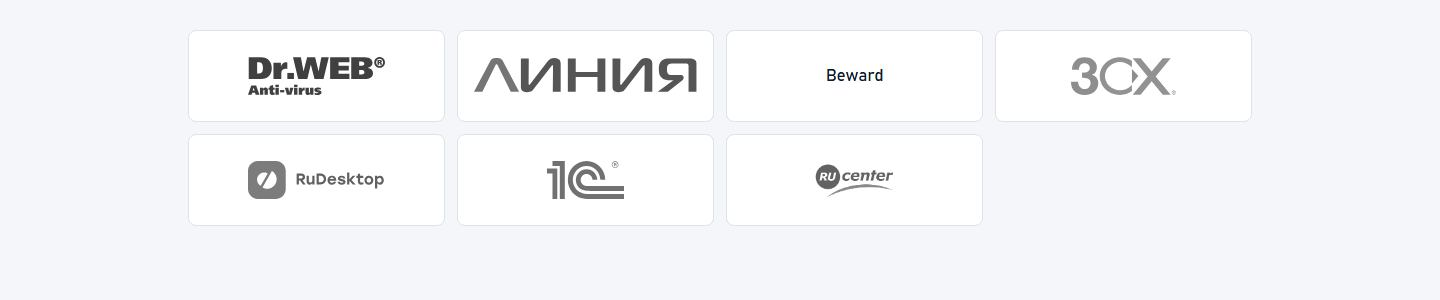
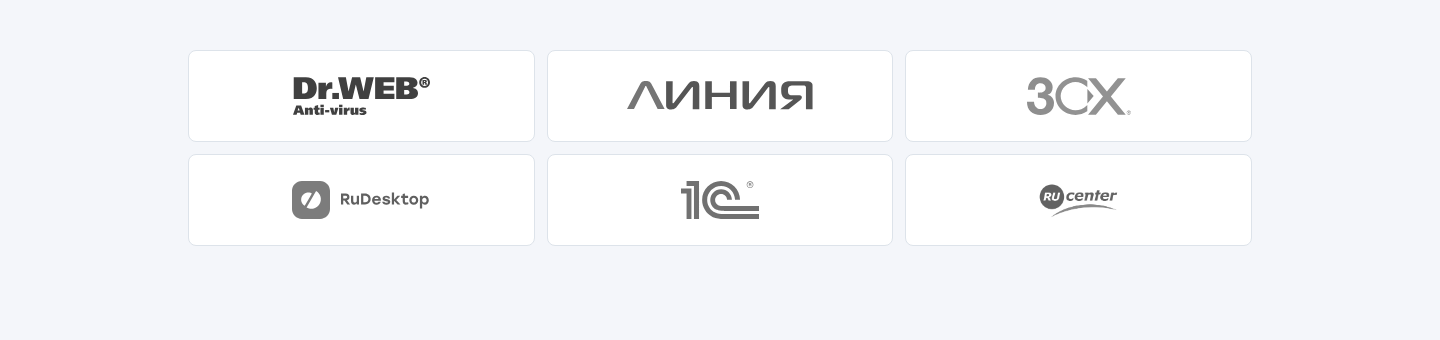
Убрать Beward, партнёры в три колонки; мета-теги и микроразметка под восемь направлений

diff --git a/index.html b/index.html
@@ -3,23 +3,23 @@
 <head>
   <meta charset="utf-8">
   <meta name="viewport" content="width=device-width, initial-scale=1">
-  <title>Интер-Техника-Плюс — компьютеры, ремонт и 1С в Иваново</title>
-  <meta name="description" content="Комплектующие и компьютеры для бизнеса в Иваново: сборка ПК и серверов, ремонт, внедрение и сопровождение 1С, хостинг и локальные сети. Работаем с 1999 года.">
+  <title>Интер-Техника-Плюс — компьютеры, 1С и видеонаблюдение в Иваново</title>
+  <meta name="description" content="Компьютеры и комплектующие для бизнеса в Иваново: сборка ПК и серверов, ремонт, внедрение 1С, видеонаблюдение, IP-АТС, хостинг и сети. Работаем с 1999 года.">
   <link rel="canonical" href="https://ivu.ru/">
   <meta name="theme-color" content="#101418">
 
   <meta property="og:type" content="website">
   <meta property="og:locale" content="ru_RU">
   <meta property="og:site_name" content="Интер-Техника-Плюс">
-  <meta property="og:title" content="Интер-Техника-Плюс — компьютеры, ремонт и 1С в Иваново">
-  <meta property="og:description" content="Сборка ПК и серверов, ремонт, внедрение 1С, хостинг и сети. Иваново, ул. Степанова, 24.">
+  <meta property="og:title" content="Интер-Техника-Плюс — компьютеры, 1С и видеонаблюдение в Иваново">
+  <meta property="og:description" content="Сборка ПК, ремонт, 1С, видеонаблюдение, телефония. Иваново, ул. Степанова, 24.">
   <meta property="og:url" content="https://ivu.ru/">
   <!-- Превью для мессенджеров и соцсетей. При переезде на ivu.ru
        поменяйте адрес на https://ivu.ru/assets/og.png -->
   <meta property="og:image" content="https://160ru.github.io/ivu-site/assets/og.png">
   <meta property="og:image:width" content="1200">
   <meta property="og:image:height" content="630">
-  <meta property="og:image:alt" content="Интер-Техника-Плюс — комплектующие и компьютеры для бизнеса">
+  <meta property="og:image:alt" content="Интер-Техника-Плюс — компьютеры, 1С, видеонаблюдение и телефония">
   <meta name="twitter:card" content="summary_large_image">
 
   <link rel="icon" href="assets/icon.png" type="image/png">
@@ -35,12 +35,29 @@
     "logo": "https://ivu.ru/assets/icon.png",
     "telephone": "+7 4932 353070",
     "foundingDate": "1999",
+    "alternateName": "Интер-Техника+",
+    "image": "https://ivu.ru/assets/og.png",
     "address": {
       "@type": "PostalAddress",
       "addressCountry": "RU",
       "addressLocality": "Иваново",
       "postalCode": "153000",
       "streetAddress": "ул. Степанова, 24"
+    },
+    "areaServed": { "@type": "City", "name": "Иваново" },
+    "hasOfferCatalog": {
+      "@type": "OfferCatalog",
+      "name": "Услуги",
+      "itemListElement": [
+        { "@type": "Offer", "itemOffered": { "@type": "Service", "name": "Продажа компьютеров и комплектующих" } },
+        { "@type": "Offer", "itemOffered": { "@type": "Service", "name": "Ремонт и сервисное обслуживание" } },
+        { "@type": "Offer", "itemOffered": { "@type": "Service", "name": "Внедрение и сопровождение 1С" } },
+        { "@type": "Offer", "itemOffered": { "@type": "Service", "name": "Хостинг и локальные сети" } },
+        { "@type": "Offer", "itemOffered": { "@type": "Service", "name": "Видеонаблюдение" } },
+        { "@type": "Offer", "itemOffered": { "@type": "Service", "name": "IP-АТС и телефония" } },
+        { "@type": "Offer", "itemOffered": { "@type": "Service", "name": "Интеграция систем" } },
+        { "@type": "Offer", "itemOffered": { "@type": "Service", "name": "Умная и бытовая техника" } }
+      ]
     }
   }
   </script>
@@ -201,7 +218,6 @@
         <ul class="partners">
           <li class="partner"><img src="assets/partners/drweb.svg" alt="Dr.Web" loading="lazy"><span class="partner__name">Dr.Web</span></li>
           <li class="partner"><img src="assets/partners/devline.svg" alt="Devline — система видеонаблюдения «Линия»" loading="lazy"><span class="partner__name">Devline</span></li>
-          <li class="partner"><span class="partner__name">Beward</span></li>
           <li class="partner"><img src="assets/partners/3cx.svg" alt="3CX" loading="lazy"><span class="partner__name">3CX</span></li>
           <li class="partner"><img src="assets/partners/rudesktop.svg" alt="RuDesktop" loading="lazy"><span class="partner__name">RuDesktop</span></li>
           <li class="partner"><img src="assets/partners/1c.svg" alt="1С Франчайзи" loading="lazy"><span class="partner__name">1С Франчайзи</span></li>

diff --git a/assets/style.css b/assets/style.css
@@ -882,7 +882,7 @@ p:last-child { margin-bottom: 0; }
 
 .cards--8 { grid-template-columns: repeat(4, minmax(0, 1fr)); }
 
-.partners { grid-template-columns: repeat(4, minmax(0, 1fr)); }
+.partners { grid-template-columns: repeat(3, minmax(0, 1fr)); }
 
 .partner {
   display: grid;

diff --git a/README.md b/README.md
@@ -50,8 +50,9 @@ ivu-site/
 
 ООО «Интер-Техника-Плюс», Иваново, ул. Степанова, 24. Работает с 1999 года.
 Направления: продажа компьютеров и комплектующих, ремонт и сервис,
-внедрение 1С, хостинг и сети. Партнёры на сайте: Dr.Web, Devline, Beward, 3CX,
-RuDesktop, 1С Франчайзи, RU-CENTER (ИРБИС убран по просьбе заказчика).
+внедрение 1С, хостинг и сети, видеонаблюдение, IP-АТС, интеграция систем,
+умная и бытовая техника — всего восемь. Партнёры на сайте: Dr.Web, Devline («Линия»), 3CX, RuDesktop,
+1С Франчайзи, RU-CENTER. ИРБИС и Beward убраны по просьбе заказчика.
 
 Реквизиты в `requisites.html` перенесены с архивной страницы: ИНН 3702008221,
 КПП 370201001, р/с 40702810600000002321, ОАО КБ «ИВАНОВО», БИК 042406705.
